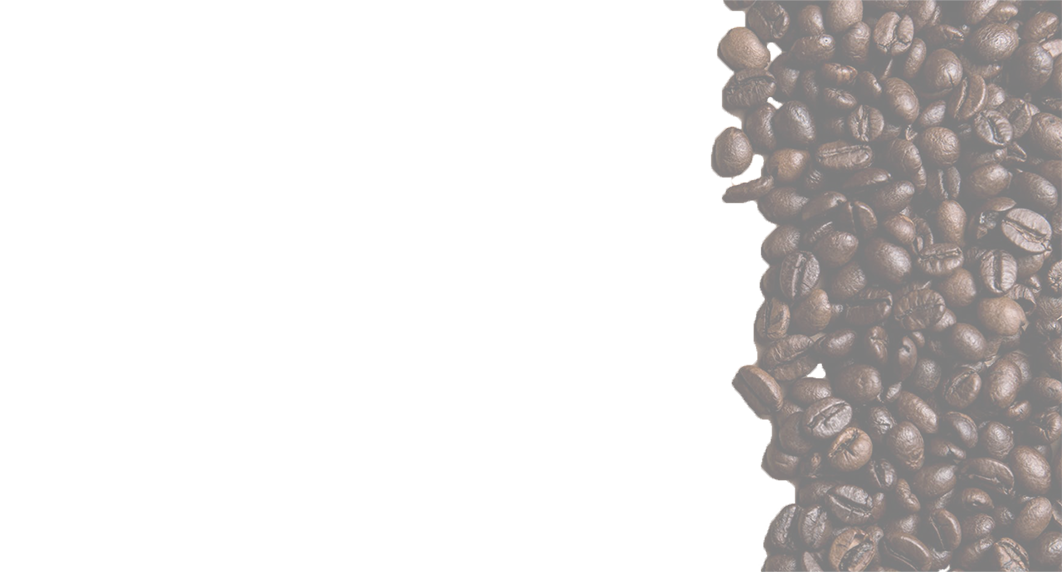
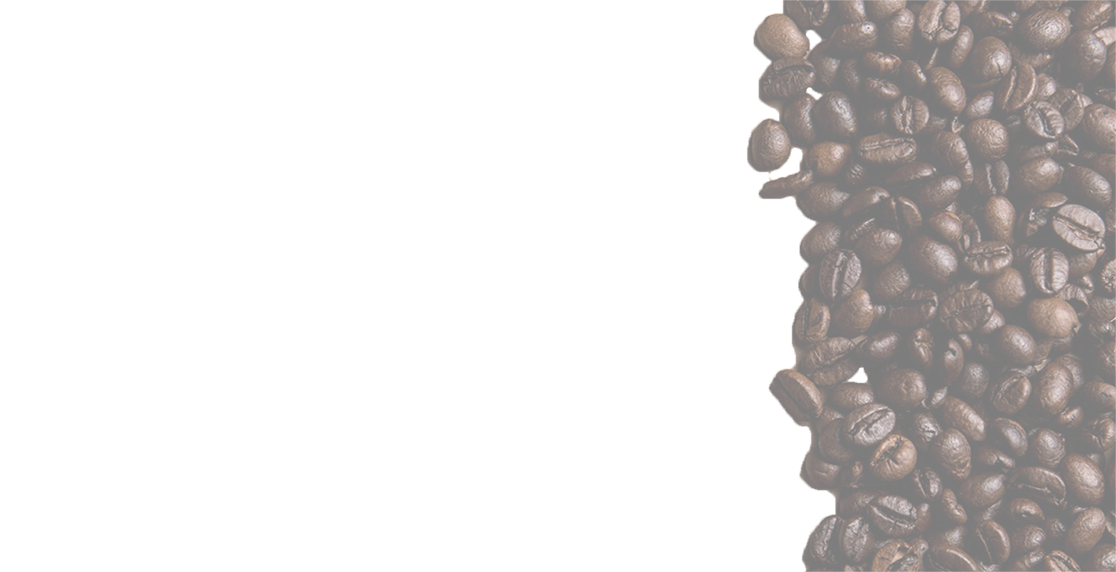
ùpdate

diff --git a/css/style.css b/css/style.css
@@ -4,6 +4,11 @@ body {
   margin: 0;
   font-size: 20px;
 }
+.clearfix::after {
+  content: "";
+  display: table;
+  clear: both;
+}
 /* -------------------------------------------------------
 header
 --------------------------------------------------------*/
@@ -60,14 +65,12 @@ h2 {
 .maincontent{
   display: grid;
   grid-template-columns: 20% repeat(5, minmax(10em, auto));
-  padding-bottom: 10rem;
 }
 
 .home, .reservering, .bestellen {
-  padding: 20px 0px 20px 20px;
   padding-bottom: 5em;
   background-image: url("../img/koffie_background_transparant.png");
-  background-position: center;
+  background-position: right;
   background-repeat: no-repeat;
   background-size: cover;
   width: 100%;
@@ -189,20 +192,18 @@ iframe {
   height: 350px;
 }
 
-.reservering{
-  background: none;
-}
-
 .reservering .intro p{
   margin-bottom: 5rem;
 }
 
 form {
-  grid-column: 2 / 4;
+  grid-column: 2 / span 2;
+  margin: auto;
+  margin-bottom: 5rem;
 }
 
-.reserveer-form{
-  margin-bottom: 15rem;
+.contact-form{
+  width: 75%; 
 }
 
 .contact-form input {
@@ -216,6 +217,12 @@ form {
 textarea {
   border: 1px solid #bf9a69;
   padding: 10px;
+  width: 100%;
+}
+
+#nieuwsbrief{
+  width: 20px;
+  float: left;
 }
 
 footer {

diff --git a/codering/reservering.html b/codering/reservering.html
@@ -16,7 +16,7 @@
       </div>
     </header>
     <div class="navigatie">
-      <nav>``
+      <nav>
         <ul>
           <li><a href="index.html">Home</a></li>
           <li><a href="koffie.html">Koffie</a></li>
@@ -88,6 +88,7 @@
             <input type="submit" value="RESERVEER" id="reserveer-btn">
           </p>
       </form>
+    </div>
     <footer>
       <p>Built and copyrighted by Java the Hutt BVBA</p>
     </footer>

diff --git a/codering/bestellen.html b/codering/bestellen.html
@@ -150,6 +150,7 @@
             <input type="submit" value="BESTEL" id="bestel-btn">
           </p>
       </form>
+    </div>
     <footer>
       <p>Built and copyrighted by Java the Hutt BVBA</p>
     </footer>

diff --git a/codering/contact.html b/codering/contact.html
@@ -25,7 +25,7 @@
         </ul>
       </nav>
     </div>
-    <div class="maincontent contact">
+    <div class="maincontent contact clearfix">
       <div class="intro">
         <h1>Contact</h1>
       </div>
